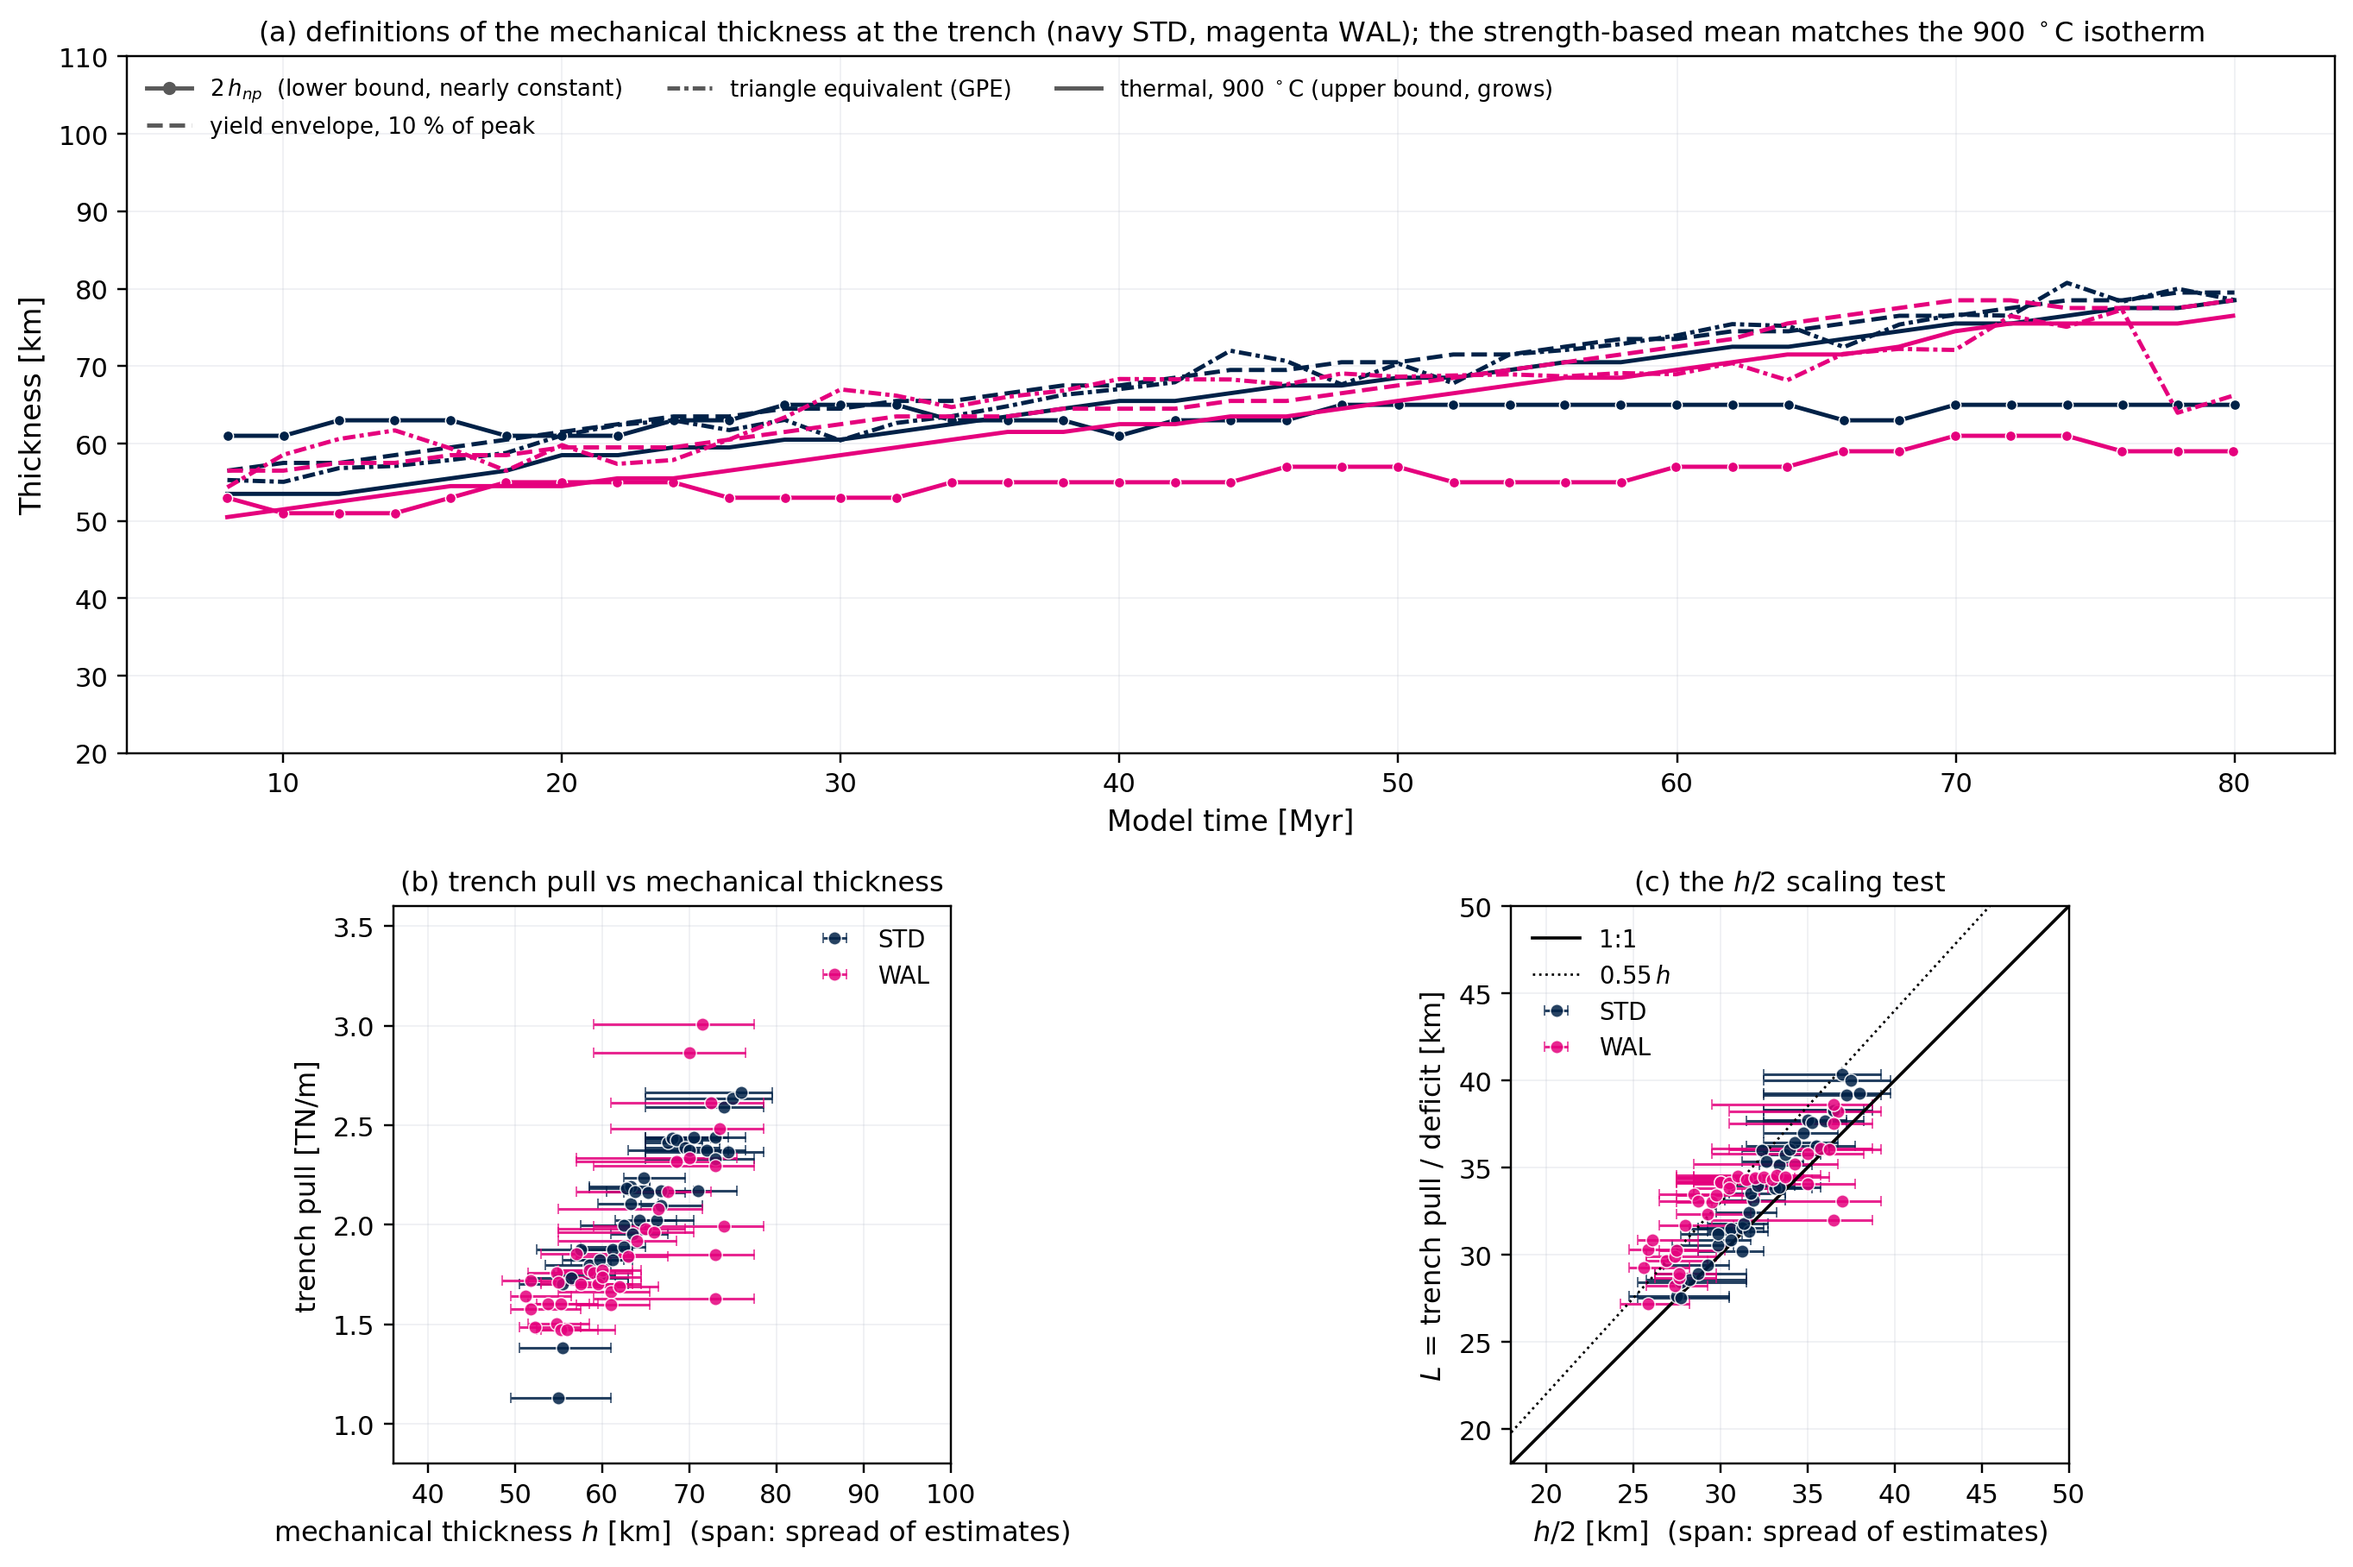
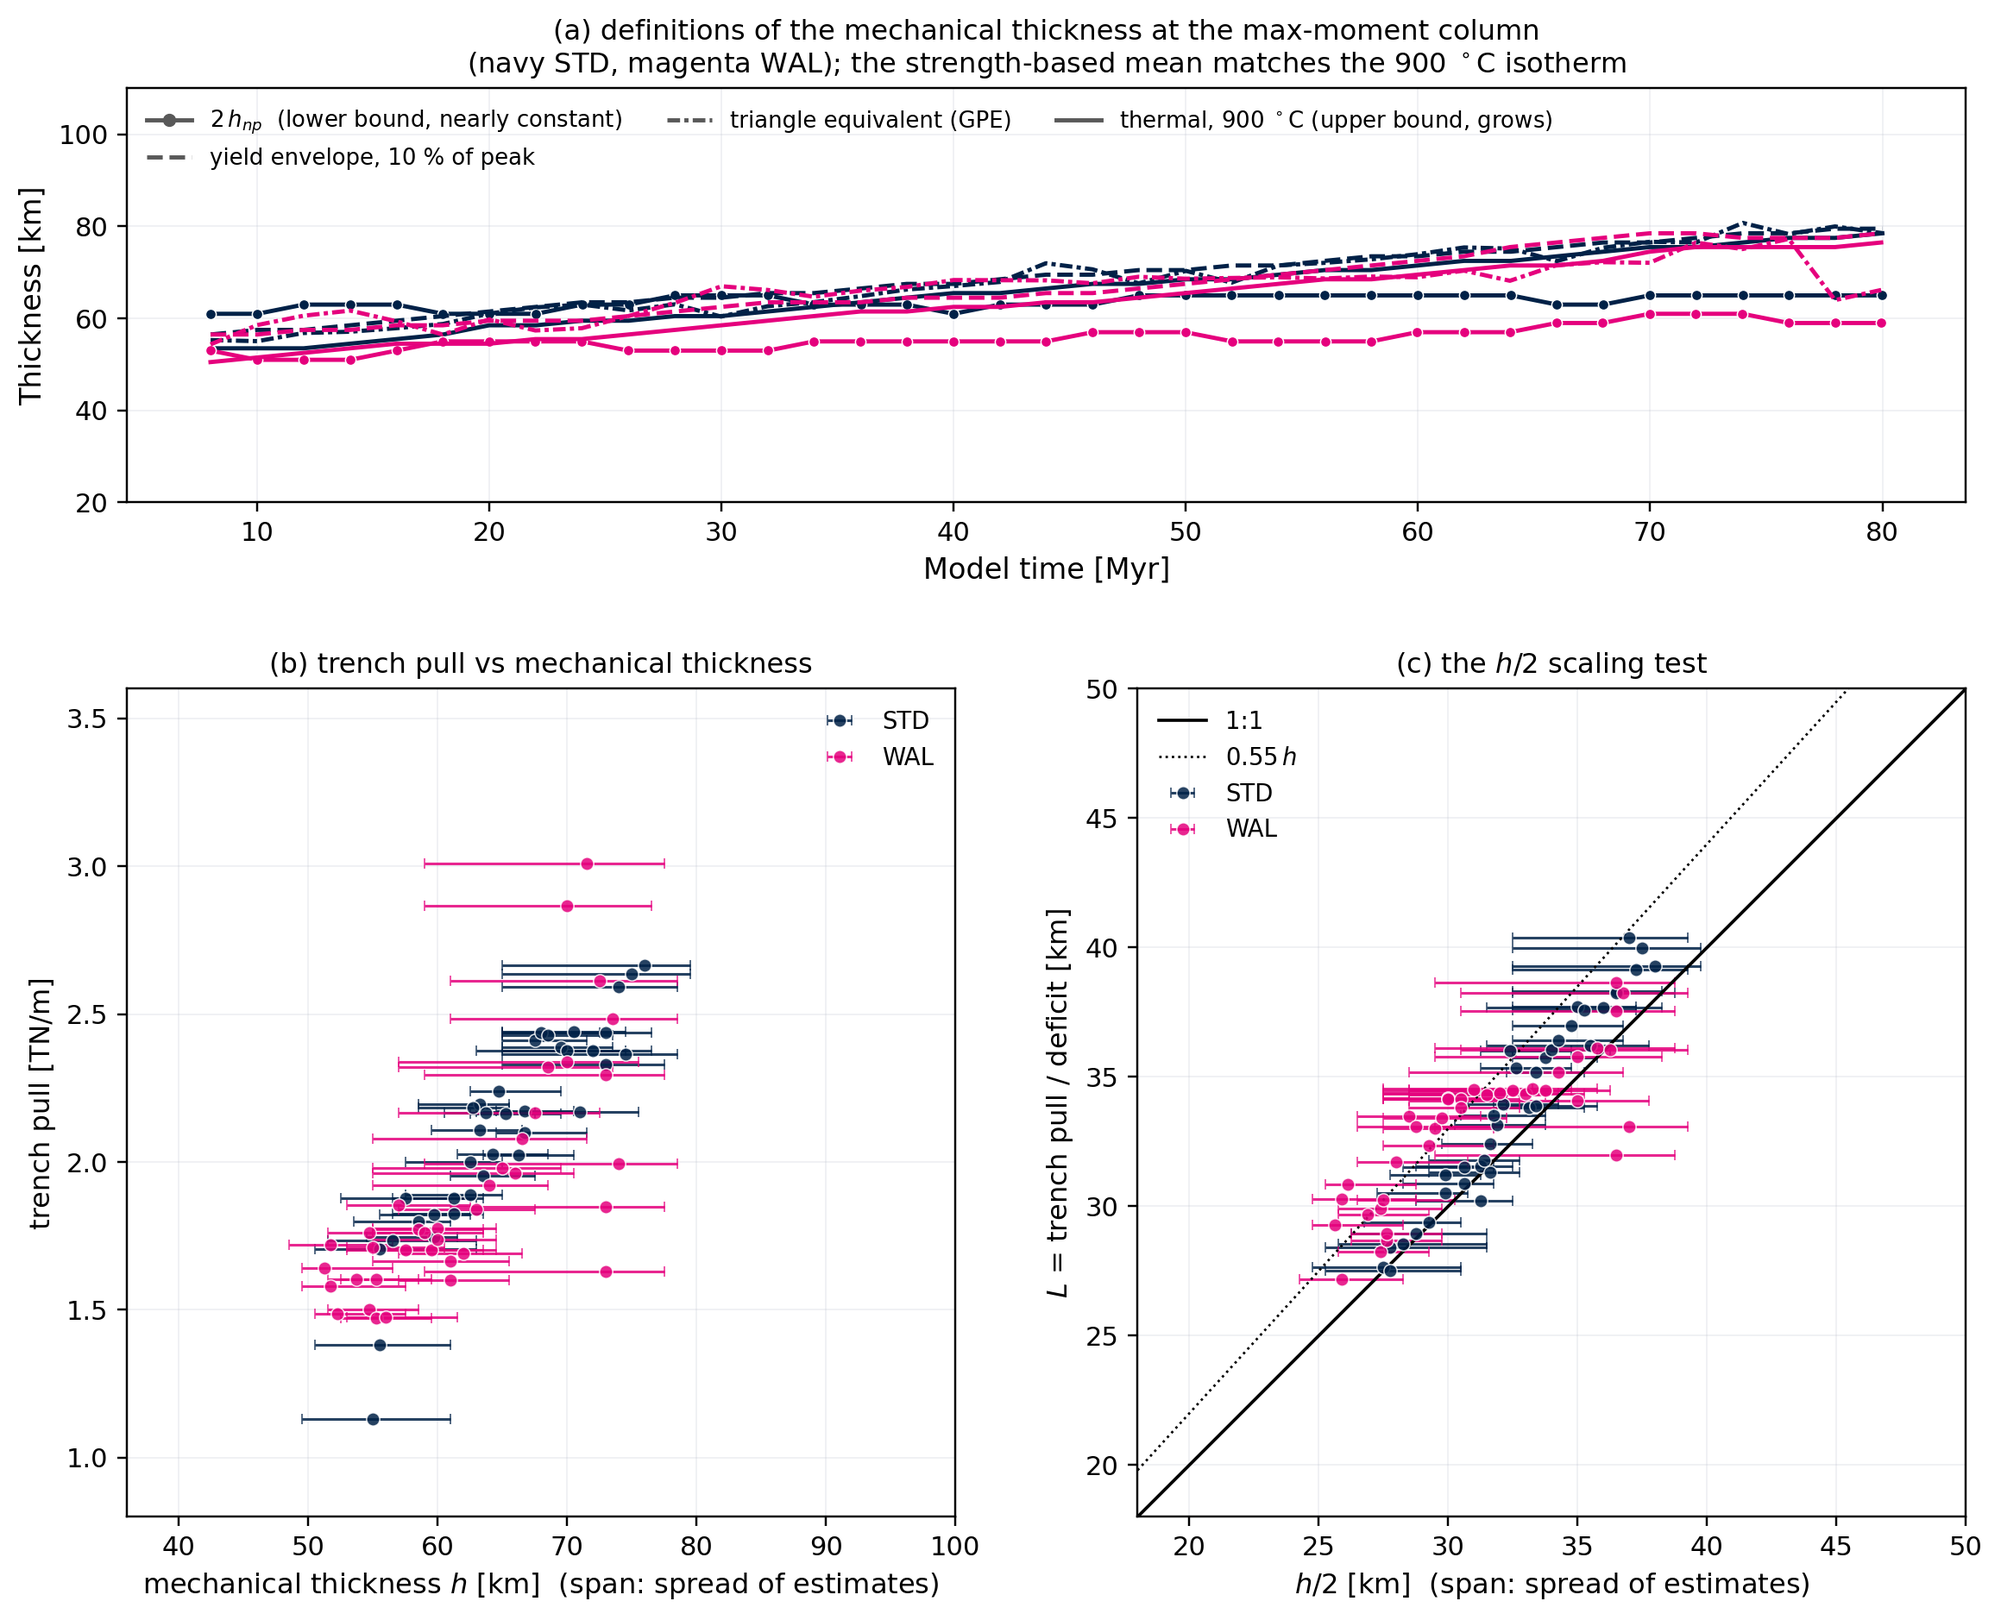
fig_mechanical_thickness: rebalance layout to a 3-row grid
Time-series panel spans two columns and one row; each lower panel takes
one column and two rows, so the square scatters fill their column width
instead of being cramped by the row height (Dan, 2026-09-16). Figure
10.2 in tall, explicit hspace/wspace instead of tight_layout (which
fights box_aspect). Panel (a) title corrected: the flexural definitions
are at the max-bending-moment column, not the trench.

diff --git a/scripts/fig_mechanical_thickness.py b/scripts/fig_mechanical_thickness.py
@@ -122,11 +122,14 @@ def main():
     d = cpc.load()
     if f'STD_sxx_T' not in d.files:
         raise SystemExit('cache lacks sigma_xx — rebuild column_profiles_cache.py')
-    fig = plt.figure(figsize=(12.5, 8.4))
-    gs = fig.add_gridspec(2, 2, height_ratios=[1.25, 1])
+    # 3-row grid: the time-series panel spans two columns and ONE row, each
+    # lower panel takes one column and TWO rows, so the squares fill their
+    # column width instead of being cramped by the row height (Dan, 2026-09-16)
+    fig = plt.figure(figsize=(12.5, 10.2))
+    gs = fig.add_gridspec(3, 2, height_ratios=[1, 1, 1], hspace=0.30, wspace=0.22)
     ax_t = fig.add_subplot(gs[0, :])
-    ax_p = fig.add_subplot(gs[1, 0])
-    ax_a = fig.add_subplot(gs[1, 1])
+    ax_p = fig.add_subplot(gs[1:, 0])
+    ax_a = fig.add_subplot(gs[1:, 1])
     # Trimmed to the four informative definitions (Dan, 2026-09-16);
     # yield-50 MPa and the 90 %-equilibration depth remain in the table.
     styles = [('np2', '-o', r'$2\,h_{np}$  (lower bound, nearly constant)'),
@@ -199,9 +202,9 @@ def main():
 
     ax_t.set_ylabel('Thickness [km]', fontsize=11)
     ax_t.set_xlabel('Model time [Myr]', fontsize=11)
-    ax_t.set_title('(a) definitions of the mechanical thickness at the trench '
-                   '(navy STD, magenta WAL); the strength-based mean matches '
-                   'the 900 $^\\circ$C isotherm', fontsize=10.5)
+    ax_t.set_title('(a) definitions of the mechanical thickness at the max-moment '
+                   'column\n(navy STD, magenta WAL); the strength-based mean '
+                   'matches the 900 $^\\circ$C isotherm', fontsize=10.5)
     ax_t.grid(alpha=0.25, color=C_RULE, lw=0.6)
     ax_t.set_ylim(20, 110)
     for _, ls, lab in styles:
@@ -228,7 +231,6 @@ def main():
     for ax in (ax_p, ax_a):
         ax.grid(alpha=0.25, color=C_RULE, lw=0.6)
         ax.legend(frameon=False, fontsize=9)
-    fig.tight_layout()
     out = os.path.join(ROOT, 'figures', 'fig_mechanical_thickness.png')
     fig.savefig(out, bbox_inches='tight', dpi=220)
     print('written:', out)
